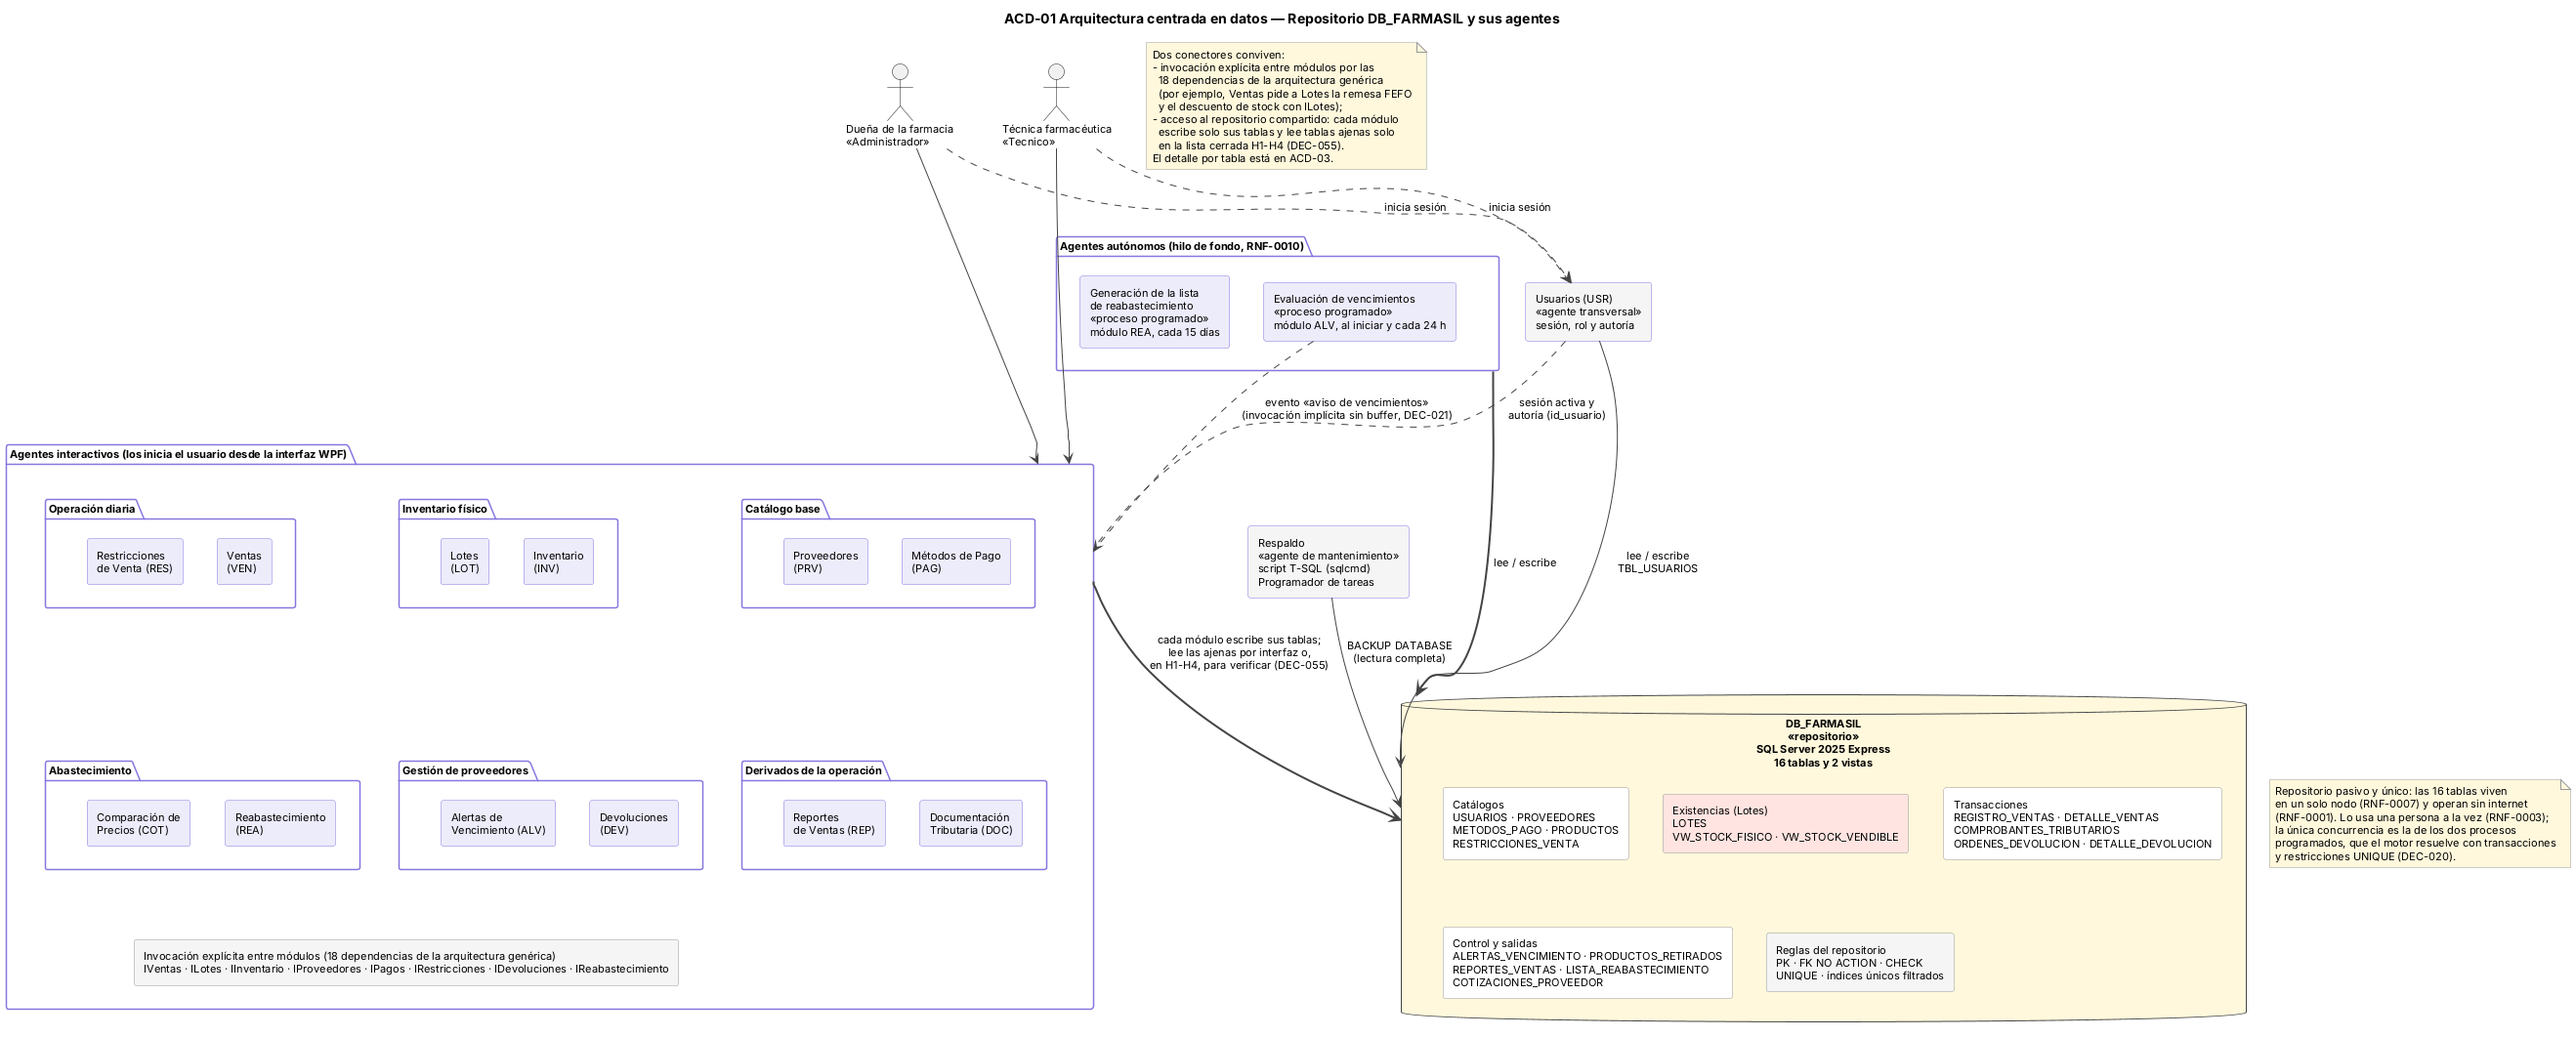
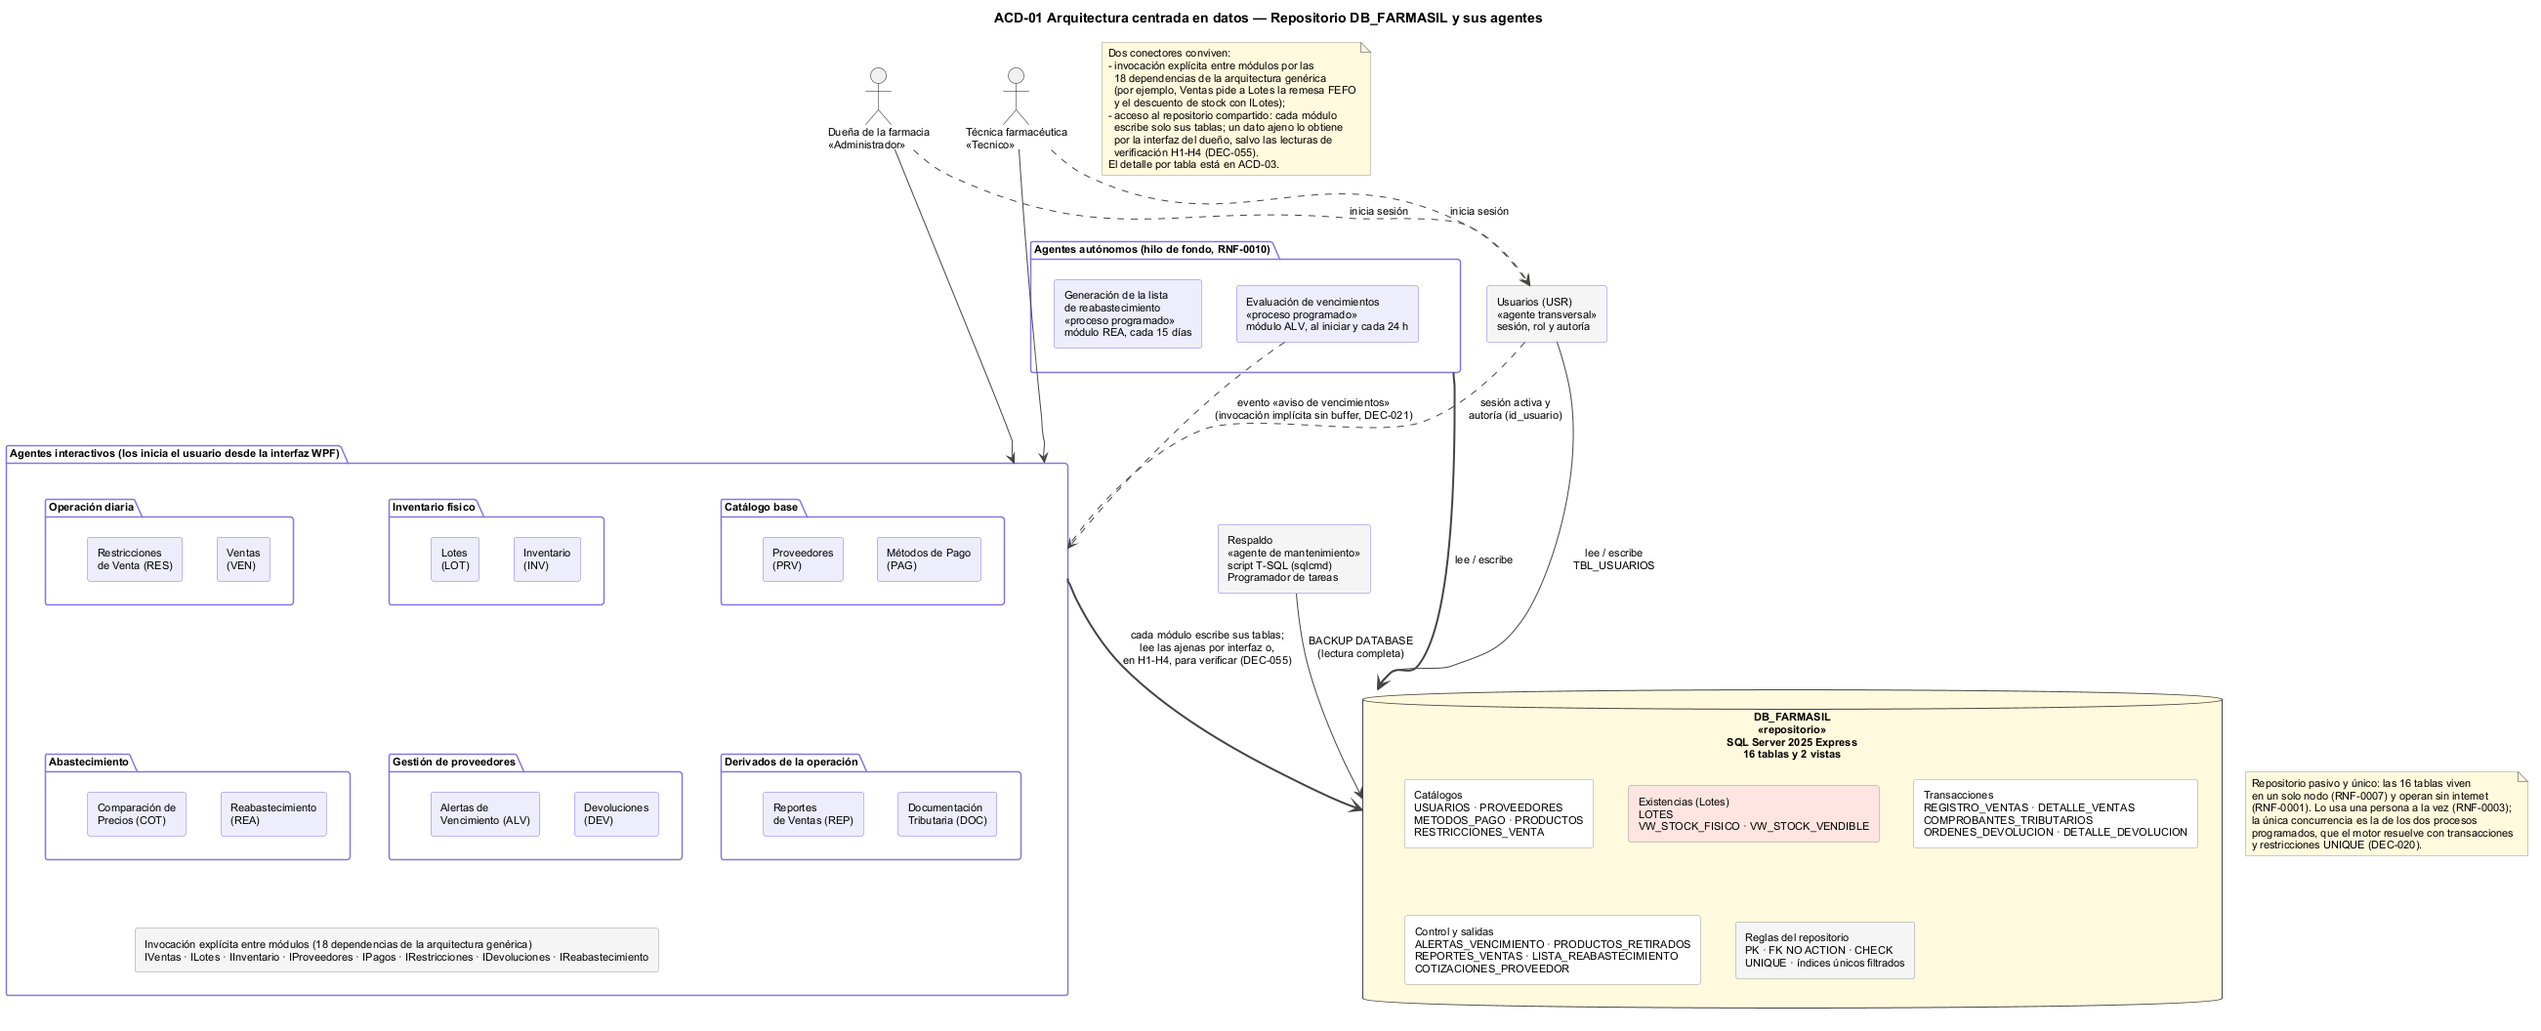
docs(arquitectura): completar la arquitectura centrada en datos con DEC-058 y DEC-059
Aplica las instrucciones de la instancia maestra sobre la rama antes del PR.

- Contexto de arquitectura: punto 8 bis, con ILotes.datosRemesas(idsLote) y sus
  dos consumidores, Devoluciones (ESP-0026) y Alertas de Vencimiento (ESP-0014),
  que no leen TBL_PRODUCTOS (DEC-057); y en la sección 4, el nombre del usuario
  responsable de ESP-0021 y ESP-0023 como consulta transversal de Usuarios, no
  como lectura H (DEC-059).
- Insumo_Matriz_Interfaces_ArquitecturaGenerica_v2: ILotes expone también
  medicamentosVendibles() (DEC-044) y datosRemesas(idsLote) (DEC-057); Devoluciones
  y Alertas suman ESP-0026 y ESP-0014 como consumidores; Reabastecimiento lee
  VW_STOCK_VENDIBLE (H2, DEC-056). Nota de actualización del 09/11/2026.
- Diccionario de Datos v11.00: VW_STOCK_FISICO y VW_STOCK_VENDIBLE solo leen
  TBL_LOTES, agrupadas por id_producto; el medicamento sin remesas no aparece y
  el consumidor lo trata como 0 (DEC-058). Se actualiza la nota de la versión.
- Registro de pendientes: DEC-058 y DEC-059.
- ACD-01 a ACD-04 pasan a v01.00 y se regeneran los PNG. ACD-01: diccionario v11.00
  y nota N2 con las lecturas H1 a H4. ACD-03: Devoluciones y Alertas leen por
  ILotes y se aclara que el nombre del autor es transversal. ACD-04: Documentación
  filtra los comprobantes en su propia tabla y el reabastecimiento muestra las dos
  ramas, ítem registrado y ya figura.

Refs #150

diff --git a/docs/arquitectura/Contexto_Arquitectura_FARMASIL_ParaAgentesIA.md b/docs/arquitectura/Contexto_Arquitectura_FARMASIL_ParaAgentesIA.md
@@ -61,6 +61,7 @@ Comparación Precios → Inventario, Proveedores, Reabastecimiento
 - No crees un servicio `UsuarioService` que otros módulos consulten como parte de su lógica de negocio.
 - Sí usa el usuario de la sesión activa (autenticación/autorización, válido para **todas** las pantallas, no solo las que tienen FK) para rellenar el campo `id_usuario` donde la tabla lo tenga: `TBL_REGISTRO_VENTAS`, `TBL_ORDENES_DEVOLUCION`, `TBL_COTIZACIONES_PROVEEDOR`.
 - `TBL_REPORTES_VENTAS` **no tiene `id_usuario` ni ninguna otra FK**. El `usuario_responsable` que exige EDU-0010 es un valor calculado: ESP-0021 lo obtiene al generar el reporte uniendo `TBL_REGISTRO_VENTAS.id_usuario` con `TBL_USUARIOS`, y solo existe dentro del archivo de salida. No agregues esa columna a la tabla.
+- Mostrar el nombre de quien hizo una operación (el usuario responsable de ESP-0021 y ESP-0023) usa la misma consulta transversal de Usuarios que la sesión. No es una regla de negocio ni una lectura H (DEC-059).
 - Control de acceso por rol (Dueña vs. Técnica, columna "Accede" de la Sección 2) es una preocupación transversal de autorización (RNF-0006), no de dominio — impleméntalo como middleware/guard, no como dependencia entre módulos.
 
 ---
@@ -75,6 +76,7 @@ Comparación Precios → Inventario, Proveedores, Reabastecimiento
 6. **Dos definiciones de stock (DEC-040).** El *stock físico* es la suma de `TBL_LOTES.stock_actual` de todas las remesas del medicamento, incluidas las bloqueadas, agotadas o vencidas, y es lo que muestra Inventario (ESP-0006). El *stock vendible* es la suma de las remesas 'Disponible' no vencidas, y es lo que compara el reabastecimiento con `stock_minimo`. Ninguno de los dos se guarda como columna. Es provisional hasta que la dueña responda (PEN-024). Ambos se leen de las vistas `VW_STOCK_FISICO` y `VW_STOCK_VENDIBLE`, propiedad de Lotes (DEC-056).
 7. **Literales de dominio sin tilde (DEC-031).** Los valores cerrados se escriben igual en los `CHECK` y en los `enum` de C#, sin tilde: `'Automatico'`, `'Tecnico'`, `'Bloqueado por devolucion'`. La base se crea con la intercalación `Modern_Spanish_CI_AS`, que distingue tildes. La interfaz puede mostrar el rótulo con tilde («Automático»); la conversión vive en la capa de presentación (DEC-049).
 8. **El catálogo de Ventas se alimenta de `ILotes` (DEC-044).** `ILotes` expone `medicamentosVendibles()`, que devuelve los medicamentos con alguna remesa vendible (DEC-033) y su stock vendible (DEC-040). Ventas lista solo esos medicamentos usando la arista existente `Ventas → Lotes`. No uses ESP-0006 ni crees la dependencia Ventas → Inventario; la matriz de interfaces cerrada no cambia.
+8 bis. **Datos de la remesa por `ILotes` (DEC-057).** `ILotes` expone `datosRemesas(idsLote)`, que devuelve por cada remesa `id_lote`, `numero_lote`, `fecha_vencimiento` y `nombre_medicamento`. Lotes obtiene el nombre por su arista Lotes → Inventario. La usan Devoluciones, para mostrar el detalle de una orden (ESP-0026), y Alertas de Vencimiento, para copiar los datos de la remesa en `TBL_PRODUCTOS_RETIRADOS` (ESP-0014). Ninguno de los dos lee `TBL_PRODUCTOS`.
 9. **Los permisos los manda la matriz (DEC-050).** Los mockups no anotan permisos. La matriz de permisos (`diseno/07-matriz-permisos.md`) decide qué puede usar cada rol, y la interfaz oculta o inhabilita lo que el rol de la sesión no puede usar. Un mismo mockup sirve a los dos roles.
 10. **Escritura por dueño y lecturas de verificación (DEC-055).** Un módulo solo escribe en sus propias tablas (sección 2). Si una operación debe cambiar una tabla ajena, se lo pide al dueño por su interfaz: Ventas, Devoluciones y Alertas de Vencimiento descuentan, restituyen o bloquean remesas con `ILotes`, que aplica la regla única de DEC-034. Un módulo puede leer una tabla ajena únicamente para verificar una precondición o usar un valor derivado, con consultas o vistas de solo lectura en su capa de Persistencia y sin invocar el servicio del dueño. La lista es cerrada:
 

diff --git a/seguimiento/11-registro-pendientes.md b/seguimiento/11-registro-pendientes.md
@@ -144,6 +144,8 @@ Preguntas en el orden en que conviene hacerlas, para salir de la reunión con to
 | DEC-055 | 09/11/2026 | Un módulo solo escribe en sus propias tablas; un cambio en una tabla ajena se pide al dueño por su interfaz (Ventas, Devoluciones y Alertas de Vencimiento cambian `TBL_LOTES` con `ILotes`, regla única DEC-034). Un módulo puede leer una tabla ajena solo para verificar una precondición o usar un valor derivado, con consultas o vistas de solo lectura en su Persistencia y sin invocar el servicio del dueño. Lista cerrada: H1, Ventas lee `TBL_COMPROBANTES_TRIBUTARIOS` (ESP-0003, ESP-0004); H2, por las vistas de DEC-056; H3, Lotes lee `TBL_DETALLE_DEVOLUCION` y `TBL_ORDENES_DEVOLUCION` (ESP-0043, ESP-0044); H4, Proveedores lee `TBL_ORDENES_DEVOLUCION` (ESP-0040). Una lectura nueva requiere aprobación de la instancia maestra. DEC-009 se refiere solo a la elección entre borrado físico y baja lógica. | La vista centrada en datos mostró lecturas cruzadas que el grafo de 18 aristas no registra. Pasarlas por la interfaz del dueño crearía los ciclos Ventas ⇄ Documentación, Lotes ⇄ Devoluciones y Proveedores ⇄ Devoluciones. | Instancia maestra | `Contexto_Arquitectura_FARMASIL_ParaAgentesIA.md` §5, RG-011, ESP-0003, ESP-0004, ESP-0040, ESP-0043, ESP-0044, ACD-03 |
 | DEC-056 | 09/11/2026 | El stock consolidado se lee de dos vistas de solo lectura propiedad de Lotes, sin columnas nuevas (DEC-040): `VW_STOCK_FISICO`, que lee Inventario (ESP-0006), y `VW_STOCK_VENDIBLE`, que lee Reabastecimiento (RNF-0010, proceso 2). | ESP-0006 leía `TBL_LOTES` desde Inventario (H2), en sentido inverso a la arista Lotes → Inventario. Con la vista, la definición del stock queda en el dueño de las remesas. | Instancia maestra | Diccionario de Datos v11.00, ESP-0006, RNF-0010, ACD-03 |
 | DEC-057 | 09/11/2026 | ESP-0026 e ILA-0026 obtienen el número de lote y el nombre del medicamento de cada línea por `ILotes`, que devuelve los datos de la remesa, como en DEC-044. Devoluciones no lee `TBL_PRODUCTOS`. | ESP-0026 unía `TBL_PRODUCTOS` desde Devoluciones (H5), una dependencia Devoluciones → Inventario que la arquitectura genérica no tiene. | Instancia maestra | ESP-0026 v04.00, ILA-0026 v05.00 |
+| DEC-058 | 09/11/2026 | VW_STOCK_FISICO y VW_STOCK_VENDIBLE solo leen TBL_LOTES, agrupadas por id_producto; el medicamento sin remesas no aparece y el consumidor lo trata como 0 (Inventario con LEFT JOIN sobre su TBL_PRODUCTOS; Reabastecimiento con los medicamentos de IInventario). | Definirlas «por cada fila de TBL_PRODUCTOS» hacía que una vista de Lotes leyera una tabla de Inventario, fuera de DEC-055, y contradecía ACD-02. | Instancia maestra | Diccionario de Datos v11.00, ACD-02, DEC-056 |
+| DEC-059 | 09/11/2026 | Mostrar el nombre del usuario responsable (ESP-0021, ESP-0023) es una consulta transversal de Usuarios, como la sesión (§4 del contexto de arquitectura); no es una lectura H ni una dependencia de negocio. Documentación filtra en su propia tabla las ventas que ya tienen comprobante 'Emitido'; Ventas no lee comprobantes fuera de H1. | La matriz ACD-03 no registraba la lectura de TBL_USUARIOS de Reportes, y ACD-04 hacía que Ventas filtrara por comprobantes. | Instancia maestra | Contexto §4, ACD-03, ACD-04, ESP-0009, ESP-0021, ESP-0023 |
 
 ## 6. Cuestiones cerradas
 

diff --git a/modelo/05-diccionario-datos.md b/modelo/05-diccionario-datos.md
@@ -396,8 +396,10 @@ Vistas de solo lectura. No agregan columnas ni persisten valores: el stock conso
 
 | Vista | Dueño | Columnas | Definición | La lee |
 | --- | --- | --- | --- | --- |
-| `VW_STOCK_FISICO` | Lotes (LOT) | `id_producto` INT, `stock_fisico` INT | Por cada fila de `TBL_PRODUCTOS`, la suma de `stock_actual` de todas sus remesas en `TBL_LOTES`, de cualquier estado y vencidas o no; 0 si no tiene remesas. | Inventario: `STOCK_FISICO(id_producto)` de ESP-0006. |
-| `VW_STOCK_VENDIBLE` | Lotes (LOT) | `id_producto` INT, `stock_vendible` INT | Por cada fila de `TBL_PRODUCTOS`, la suma de `stock_actual` de sus remesas con `estado_lote` = 'Disponible' y `fecha_vencimiento` posterior a la fecha actual; 0 si no tiene ninguna. | Reabastecimiento: proceso 2 de RNF-0010, que la compara con `stock_minimo`. |
+| `VW_STOCK_FISICO` | Lotes (LOT) | `id_producto` INT, `stock_fisico` INT | Suma de `stock_actual` de `TBL_LOTES` agrupada por `id_producto`, sin filtrar por estado ni vencimiento. | Inventario: `STOCK_FISICO(id_producto)` de ESP-0006. |
+| `VW_STOCK_VENDIBLE` | Lotes (LOT) | `id_producto` INT, `stock_vendible` INT | Suma de `stock_actual` de `TBL_LOTES` con `estado_lote` = 'Disponible' y `fecha_vencimiento` posterior a la fecha actual, agrupada por `id_producto`. | Reabastecimiento: proceso 2 de RNF-0010, que la compara con `stock_minimo`. |
+
+Las vistas solo leen `TBL_LOTES`. Un medicamento sin remesas, o sin remesas vendibles, no aparece. El consumidor lo trata como 0: Inventario une la vista a su propia `TBL_PRODUCTOS` con `LEFT JOIN` y `COALESCE`, y Reabastecimiento hace lo mismo con los medicamentos que obtiene por `IInventario` (DEC-058).
 
 Si la dueña cambia la definición de alguno de los dos stocks (PEN-024), se modifica solo la vista; los consumidores no cambian.
 
@@ -438,7 +440,7 @@ Estos puntos no se modificaron porque implican decisiones de alcance, no correcc
 **Autor:** AUT-0001
 **Origen:** Diccionario de Datos v02.00, `Cambios_Modelo_ER_DB_FARMASIL.md` y Entrevista 3 (v05.00) y auditorías de la base de datos (`seguimiento/13-auditoria-bd-claude.md` y `seguimiento/13-auditoria-bd-gpt.md`, issue #63)
 
-> **Aplicado en v11.00 (09/11/2026, arquitectura centrada en datos):** nueva sección «Vistas del repositorio» con `VW_STOCK_FISICO` y `VW_STOCK_VENDIBLE`, propiedad de Lotes y de solo lectura, sin columnas nuevas (DEC-040, DEC-056). Inventario deja de leer `TBL_LOTES` para mostrar el stock físico. Se agrega el patrón `VW_<nombre>` a la convención de nombres.
+> **Aplicado en v11.00 (09/11/2026, arquitectura centrada en datos):** nueva sección «Vistas del repositorio» con `VW_STOCK_FISICO` y `VW_STOCK_VENDIBLE`, propiedad de Lotes y de solo lectura, sin columnas nuevas (DEC-040, DEC-056). Inventario deja de leer `TBL_LOTES` para mostrar el stock físico. Se agrega el patrón `VW_<nombre>` a la convención de nombres. Las vistas solo leen `TBL_LOTES`, y un medicamento sin remesas no aparece: el consumidor lo trata como 0 (DEC-058).
 
 > **Aplicado en v10.00 (08/11/2026, auditorías de la base de datos, issue #63):**
 >

diff --git a/docs/arquitectura/Insumo_Matriz_Interfaces_ArquitecturaGenerica_v2.md b/docs/arquitectura/Insumo_Matriz_Interfaces_ArquitecturaGenerica_v2.md
@@ -88,13 +88,14 @@ Cada fila es una interfaz nombrada con el prefijo `I` seguido del nombre del mó
 - **Confianza:** alta.
 
 ### ILotes (provista por Lotes)
-- **Expone:** consulta de remesas disponibles (criterio FEFO), descuento/restitución de `stock_actual`, cambio de `estado_lote`.
+- **Expone:** consulta de remesas disponibles (criterio FEFO), descuento/restitución de `stock_actual`, cambio de `estado_lote`, `medicamentosVendibles()` (DEC-044) y `datosRemesas(idsLote)` (DEC-057).
 - **Requerida por:**
   - Ventas (ESP-0001: selección de remesa por FEFO y descuento de stock al confirmar la venta).
-  - Alertas de Vencimiento (ESP-0014: bloquea la remesa cambiando `estado_lote` a `'Bloqueado por devolucion'`; ESP-0016 la restituye a `'Disponible'`).
-  - Devoluciones (ESP-0025: valida `lote.id_proveedor = proveedor` y descuenta `stock_actual` al completar la orden en ESP-0027).
-  - Reabastecimiento (proceso periódico: compara el stock consolidado — `SUMA(TBL_LOTES.stock_actual)` por producto — contra `TBL_PRODUCTOS.stock_minimo`).
+  - Alertas de Vencimiento (ESP-0014: bloquea la remesa cambiando `estado_lote` a `'Bloqueado por devolucion'`, y obtiene los datos de la remesa para el retiro; ESP-0016 la restituye a `'Disponible'`).
+  - Devoluciones (ESP-0025: valida `lote.id_proveedor = proveedor` y descuenta `stock_actual` al completar la orden en ESP-0027; ESP-0026: datos de la remesa).
+  - Reabastecimiento (proceso periódico: el stock vendible ya no se calcula con `SUMA(TBL_LOTES.stock_actual)`; se lee de `VW_STOCK_VENDIBLE`, que es propiedad de Lotes, lectura H2, DEC-056, y se compara contra `TBL_PRODUCTOS.stock_minimo`).
 - **Confianza:** alta.
+- **Nota (09/11/2026):** se agregan `medicamentosVendibles()` y `datosRemesas(idsLote)` a las operaciones expuestas y se actualizan los consumidores según DEC-044, DEC-056 y DEC-057.
 
 ### IVentas (provista por Ventas)
 - **Expone:** consulta de ventas y su detalle, por fecha/producto.
